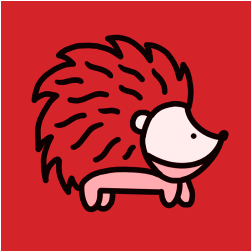
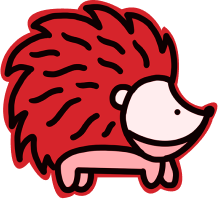
convert to closer to figma and update some dorm mascot images

diff --git a/frontend/src/routes/dorm-select.tsx b/frontend/src/routes/dorm-select.tsx
@@ -22,11 +22,59 @@ export const Route = createFileRoute("/dorm-select")({
 	component: RouteComponent,
 });
 
+const MascotData: Record<DormName, { mascotName: string; chant: string }> = {
+	"Morewood Gardens": {
+		mascotName: "Gardens the Sunflower",
+		chant: '"What do we need?! Morewood!!"',
+	},
+	"Morewood E-Tower": {
+		mascotName: "Yuxiang the Pineapple",
+		chant: "“Who's Got The Power?! E-Tower!!”",
+	},
+	Donner: {
+		mascotName: "Donner the Whale",
+		chant: '"“Yeah, Donner!!”',
+	},
+	Stever: {
+		mascotName: "Stever the Cactus",
+		chant:
+			'"Brrr...It\'s Cold in here... There must be some Stever in the Atmosphere"',
+	},
+	Mudge: {
+		mascotName: "Mudge the Koi",
+		chant: '"Who\'s house? Mudge House!!"',
+	},
+	"Res on Fifth": {
+		mascotName: "Ranch the Flamingo",
+		chant: '"Party on what ave?! Fifth Ave!!"\n~Res on Fifth',
+	},
+	Whesco: {
+		mascotName: "Whesco the Penguin",
+		chant: '"Let\'s Go, Whesco!!"\n~Henderson, Welch, and Scobell',
+	},
+	Hammerschlag: {
+		mascotName: "Penny the HedgeHog",
+		chant: '"Can I get a Hill Yeah?! Hill Yeah!!"\n~Hammerschlag',
+	},
+	"McGill and Boss": {
+		mascotName: "Randal the Red Panda",
+		chant: '"Can I get a Hill Yeah?! Hill Yeah!!"\n~Hammerschlag',
+	},
+	"Margaret Morrison": {
+		mascotName: "Aimee the Magpie",
+		chant: '"What do we need?! Morisson!!"',
+	},
+};
+
 function RouteComponent() {
 	const { from } = Route.useSearch();
 	const { $api } = useApi();
 	const navigate = useNavigate();
 
+	const [selectedDorm, setSelectedDorm] = useState<{
+		name: DormName;
+		image_path: string;
+	} | null>(null);
 	const [error, setError] = useState<string | null>(null);
 
 	const updateDormMutation = $api.useMutation("put", "/api/profile/dorm", {
@@ -47,43 +95,144 @@ function RouteComponent() {
 	};
 
 	return (
-		<div className="px-4 pt-6 max-w-xl mx-auto [view-transition-name:main-content]">
-			<div className="py-2 bg-[#941120] outline-2 outline-black rounded-lg mb-2 text-center text-white">
-				<h1 className="text-2xl font-bold">Select your dorm:</h1>
-			</div>
-			{error && (
-				<div className="py-2 bg-[#941120] outline-2 outline-black rounded-lg mb-2 text-center text-white">
-					{error}
+		<div className="mx-auto bg-white h-screen flex flex-col border border-gray-300 rounded-lg shadow-lg">
+			<div className="px-4 pt-6 pb-2 rounded-t-lg flex-1 content-center">
+				{" "}
+				{/* Explainer + selected image */}
+				<div className="flex justify-center py-2">
+					{" "}
+					{/* Mascot Image */}
+					<img
+						src={
+							selectedDorm
+								? selectedDorm.image_path
+								: "images/dorm-mascots/defaultscotty.png"
+						}
+						alt={`${selectedDorm ? selectedDorm.name : ""} mascot`}
+						className="w-48 h-48 object-contain"
+					/>
 				</div>
-			)}
-			<div className="space-y-3 px-2 py-1 outline-2 rounded-lg bg-[#941120]">
-				{Object.entries(dormGroups).map(([groupName, dorms]) =>
-					dorms.map((dorm) => (
-						<button
-							key={dorm.name}
-							type="button"
-							className={
-								"flex w-full items-center my-4 p-3 outline-2 rounded-lg " +
-								dormColors[groupName as keyof typeof dormColors].light
-							}
-							onClick={() => handleSubmit(dorm.name)}
-						>
-							<img
-								src={`${dorm.image_path}`}
-								alt={""}
-								className={
-									"object-contain w-16 h-16 rounded-lg p-1 " +
-									dormColors[groupName as DormGroup].primary
-								}
-							/>
-							<div className="text-lg font-semibold p-4">
-								{groupName}: {dorm.name}
+				{/* Title & Subtitle */}
+				<div className="text-center px-8 pb-6">
+					<h1 className="text-xl font-semibold mb-2">
+						{selectedDorm
+							? MascotData[selectedDorm.name].mascotName
+							: "Dorm Mascots"}
+					</h1>
+					{selectedDorm ? (
+						<p className="text-gray-600 text-sm max-w-xs mx-auto">
+							{MascotData[selectedDorm.name].chant}
+						</p>
+					) : (
+						<p className="text-gray-600 text-sm max-w-xs mx-auto">
+							Every year, all first year dorms compete in the{" "}
+							<strong>Carnegie Cup to crown the best house!</strong>
+						</p>
+					)}
+				</div>
+			</div>
+			<div className="px-4 py-6 flex-none h-[500px]">
+				{/* Dorm mascots scroll */}
+				<div className="bg-gray-100 w-full rounded-lg py-4 flex-initial shadow-inner overflow-hidden px-4">
+					<div className="flex flex-row overflow-x-scroll gap-4">
+						{Object.entries(dormGroups).map(([groupName, dorms]) => (
+							<div key={groupName}>
+								<div
+									key={groupName}
+									className={
+										"flex flex-row items-center rounded-2xl p-2 pb-1 " +
+										dormColors[groupName as DormGroup].muted
+									}
+								>
+									{dorms.map((dorm) => (
+										<button
+											type="button"
+											className="m-2 overflow-x-auto scrollbar-hide"
+											key={dorm.name}
+											onClick={() => {
+												setSelectedDorm(dorm);
+											}}
+										>
+											<div
+												className={
+													"w-[150px] h-[150px] rounded-2xl p-2 pb-3 " +
+													dormColors[groupName as DormGroup].selected
+												}
+											>
+												<img
+													src={dorm.image_path}
+													alt={`${dorm.name} mascot`}
+													className={
+														"object-contain w-full h-full rounded-2xl " +
+														dormColors[groupName as keyof typeof dormColors]
+															.light
+													}
+												/>
+											</div>
+											<h5 className="block text-center text-md text-white font-semibold h-12 content-center">
+												{dorm.name}
+											</h5>
+										</button>
+									))}
+								</div>
 							</div>
-							<ChevronRight className="ml-auto text-gray-500" />
-						</button>
-					)),
-				)}
+						))}
+					</div>
+				</div>
+
+				{/* Confirm Button */}
+				<div className="px-6 py-6">
+					<button
+						type="button"
+						className="w-full bg-red-700 text-white font-semibold py-3 rounded-full hover:bg-red-800 transition"
+						onClick={() => selectedDorm && handleSubmit(selectedDorm.name)}
+					>
+						Confirm
+					</button>
+				</div>
 			</div>
 		</div>
 	);
 }
+
+// 	return (
+// 		<div className="px-4 pt-6 max-w-xl mx-auto [view-transition-name:main-content]">
+// 			<div className="py-2 bg-[#941120] outline-2 outline-black rounded-lg mb-2 text-center text-white">
+// 				<h1 className="text-2xl font-bold">Select your dorm:</h1>
+// 			</div>
+// 			{error && (
+// 				<div className="py-2 bg-[#941120] outline-2 outline-black rounded-lg mb-2 text-center text-white">
+// 					{error}
+// 				</div>
+// 			)}
+// 			<div className="space-y-3 px-2 py-1 outline-2 rounded-lg bg-[#941120]">
+// 				{Object.entries(dormGroups).map(([groupName, dorms]) =>
+// 					dorms.map((dorm) => (
+// 						<button
+// 							key={dorm.name}
+// 							type="button"
+// 							className={
+// 								"flex w-full items-center my-4 p-3 outline-2 rounded-lg " +
+// 								dormColors[groupName as keyof typeof dormColors].light
+// 							}
+// 							onClick={() => handleSubmit(dorm.name)}
+// 						>
+// 							<img
+// 								src={`${dorm.image_path}`}
+// 								alt={""}
+// 								className={
+// 									"object-contain w-16 h-16 rounded-lg p-1 " +
+// 									dormColors[groupName as DormGroup].primary
+// 								}
+// 							/>
+// 							<div className="text-lg font-semibold p-4">
+// 								{groupName}: {dorm.name}
+// 							</div>
+// 							<ChevronRight className="ml-auto text-gray-500" />
+// 						</button>
+// 					)),
+// 				)}
+// 			</div>
+// 		</div>
+// 	);
+// }
